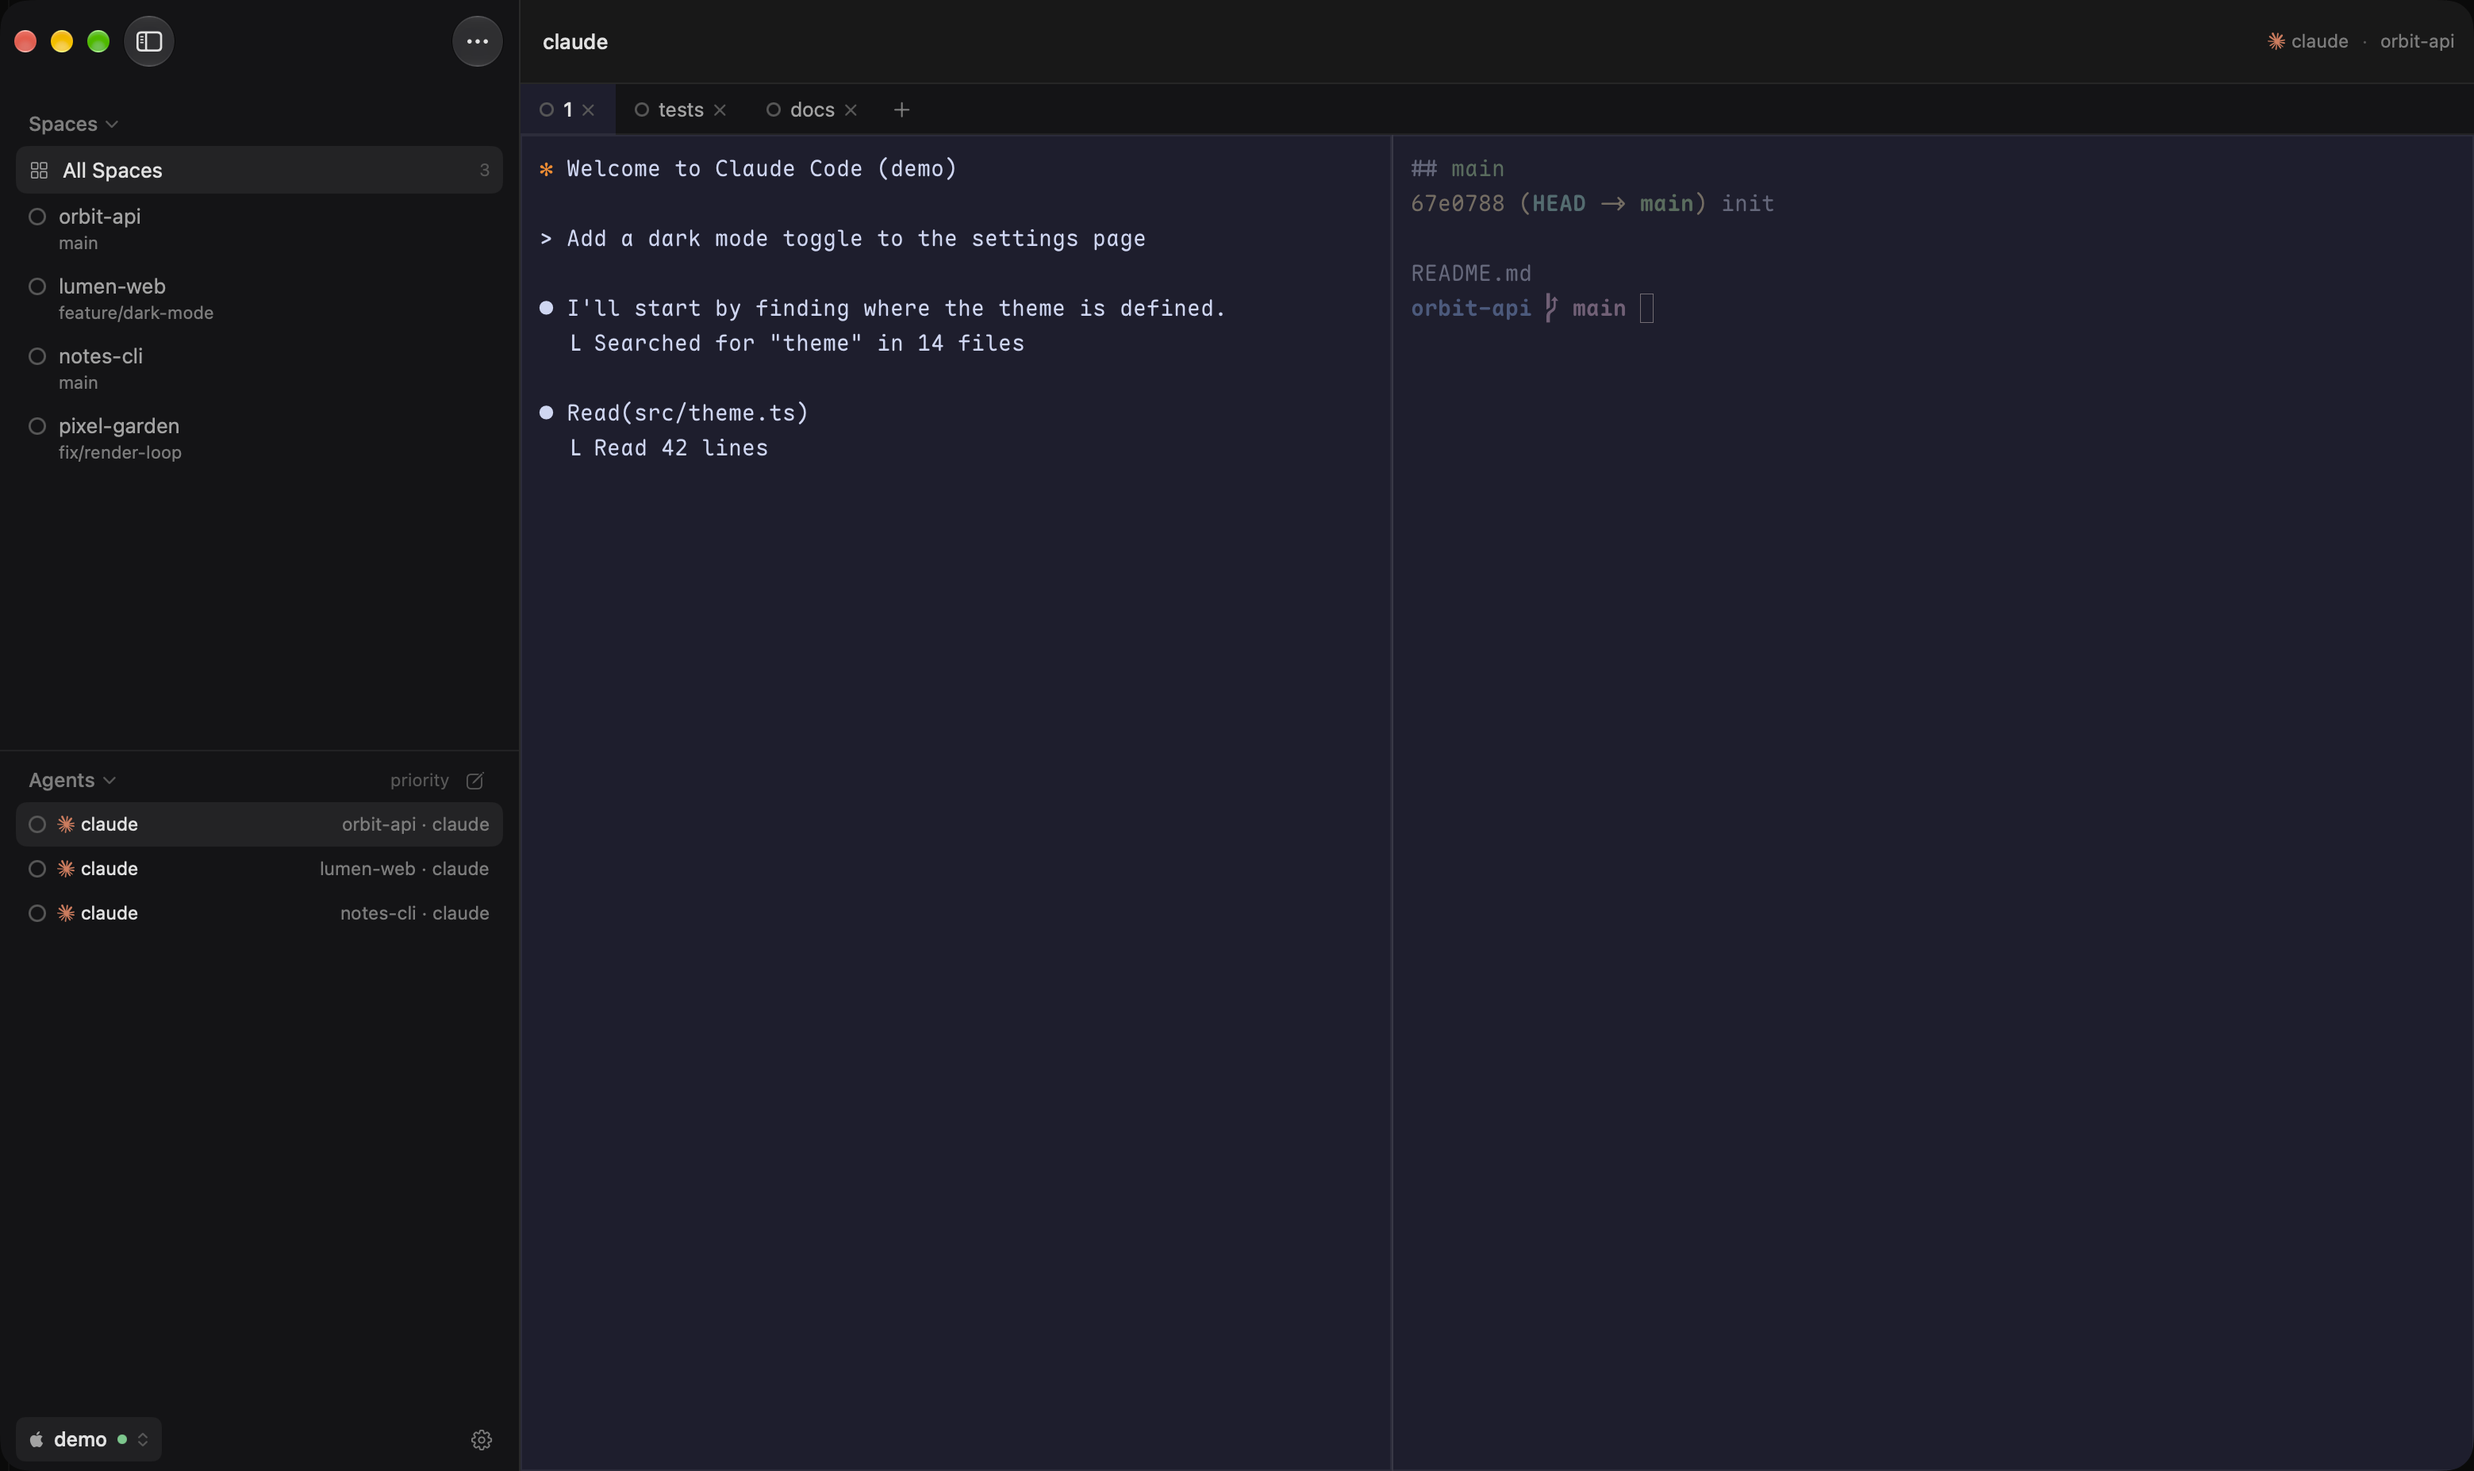
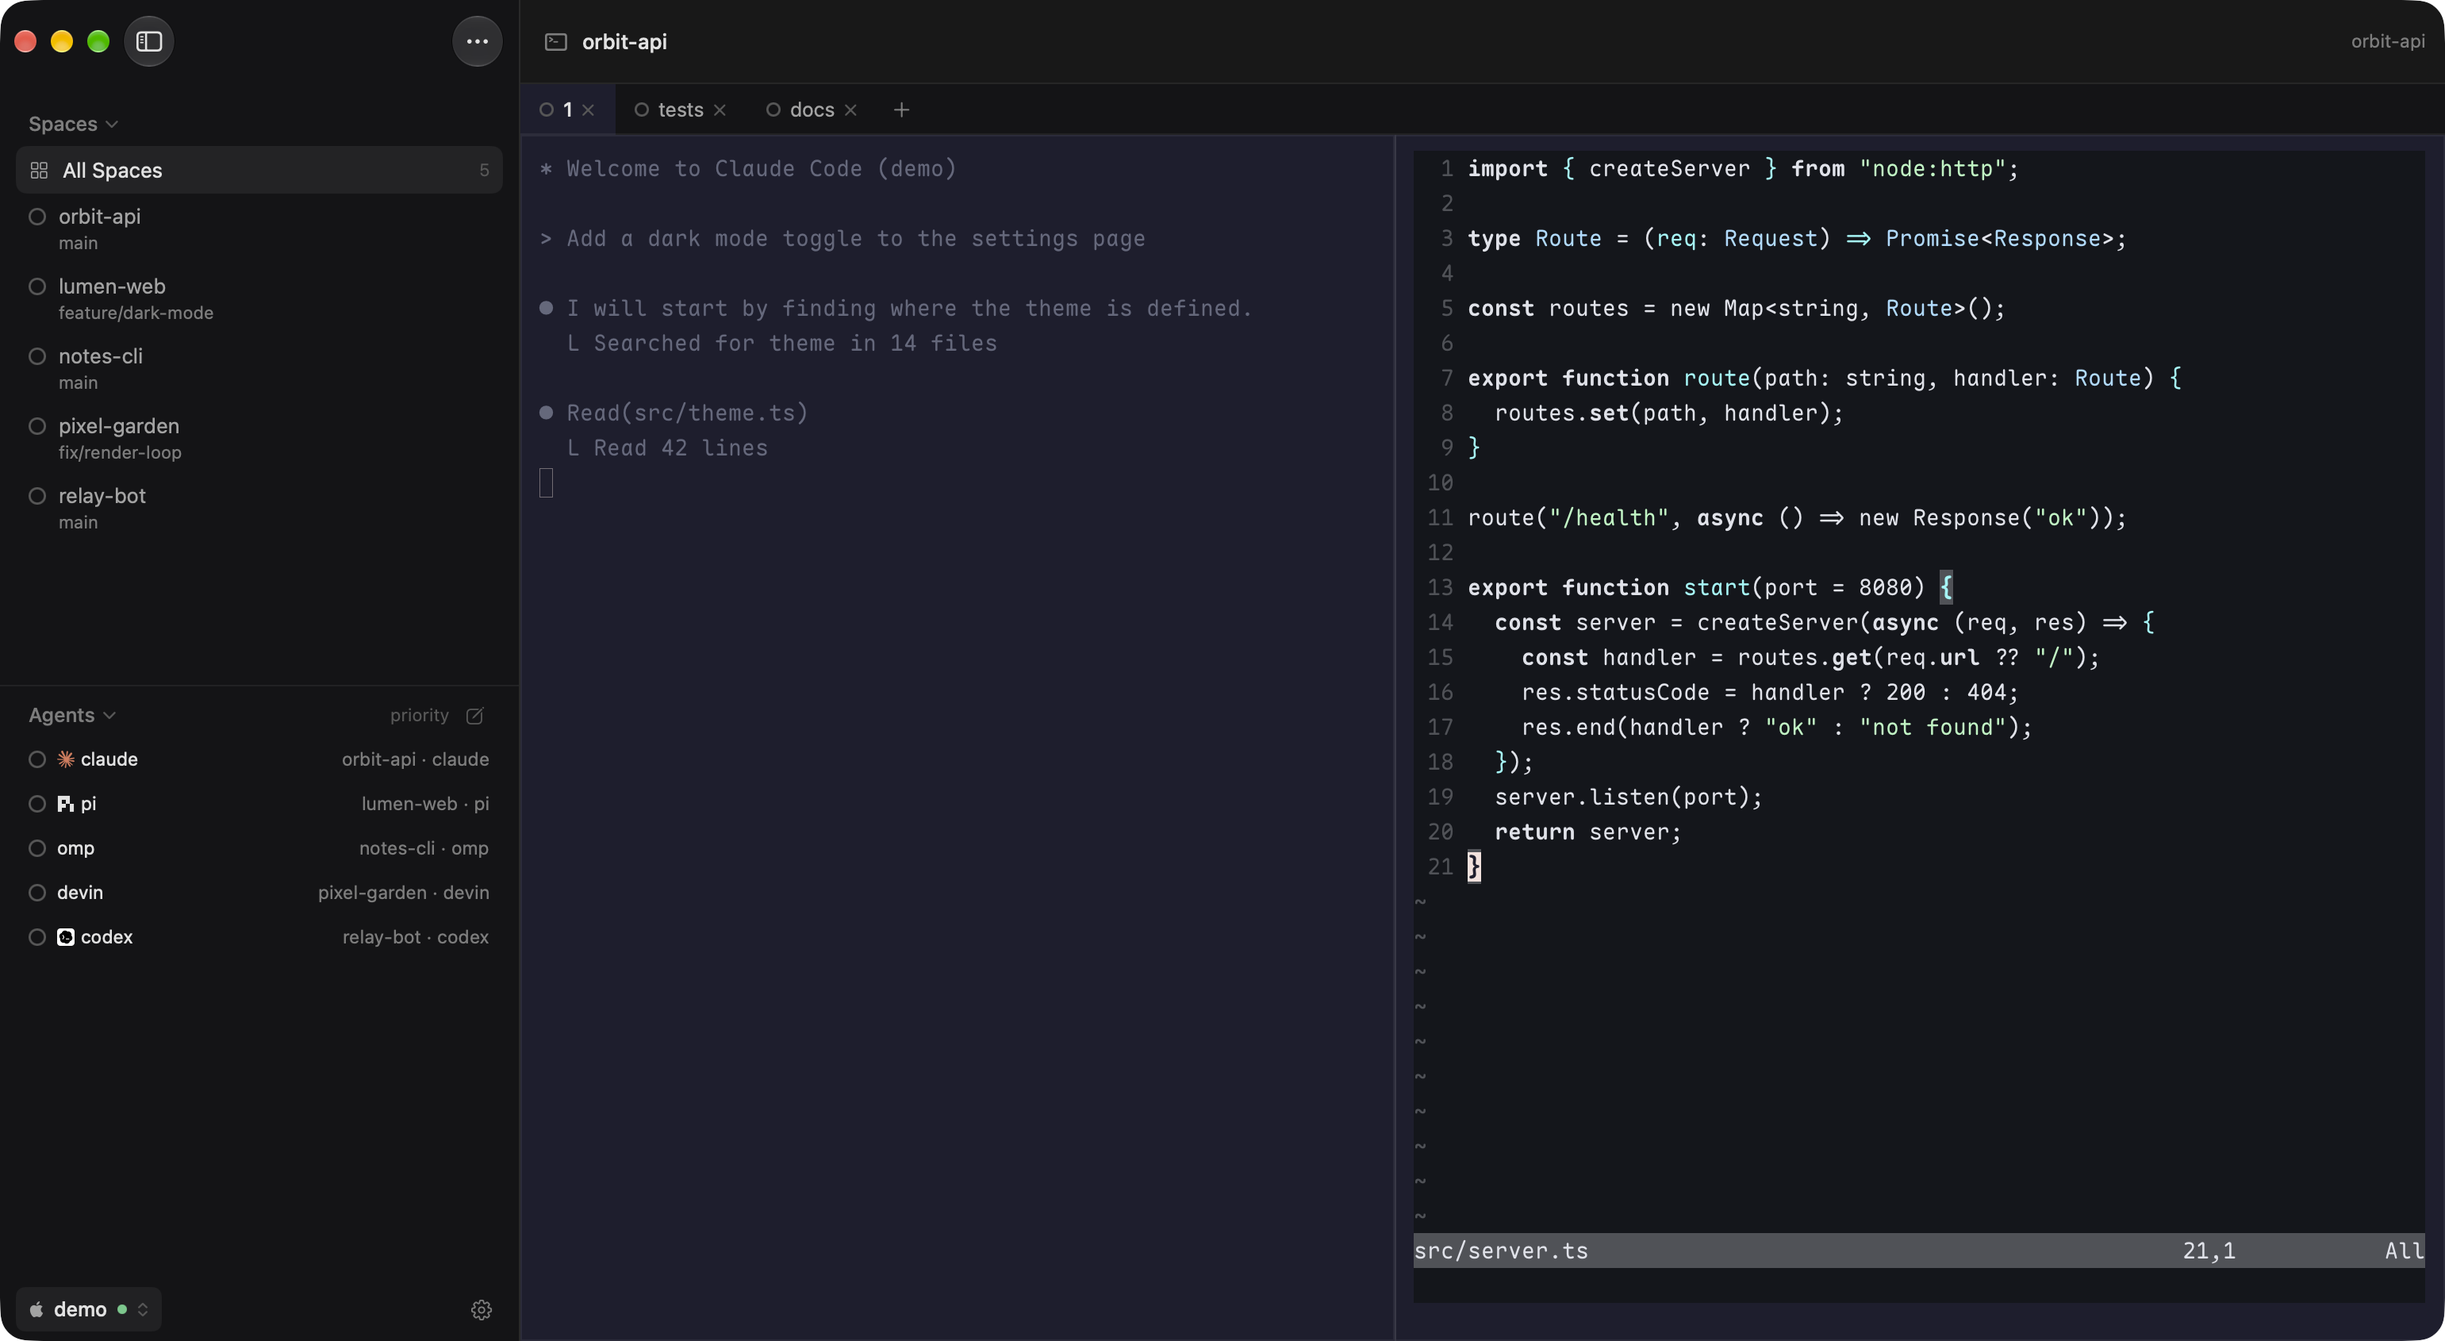
docs(readme): screenshot with several agent kinds and an editor pane

diff --git a/README.md b/README.md
@@ -11,7 +11,7 @@ up in one sidebar.
 > ([PolyForm Noncommercial 1.0.0](LICENSE.md)); see [License](#license).
 
 <p align="center">
-  <img src=".github/assets/screenshot.png" alt="MacHerdr: sidebar with spaces and agents, the tab bar, and a split terminal layout" />
+  <img src=".github/assets/screenshot.png" alt="MacHerdr: sidebar with spaces and several kinds of agents, the tab bar, and a split terminal layout with an agent and neovim" />
 </p>
 
 ## What it does
